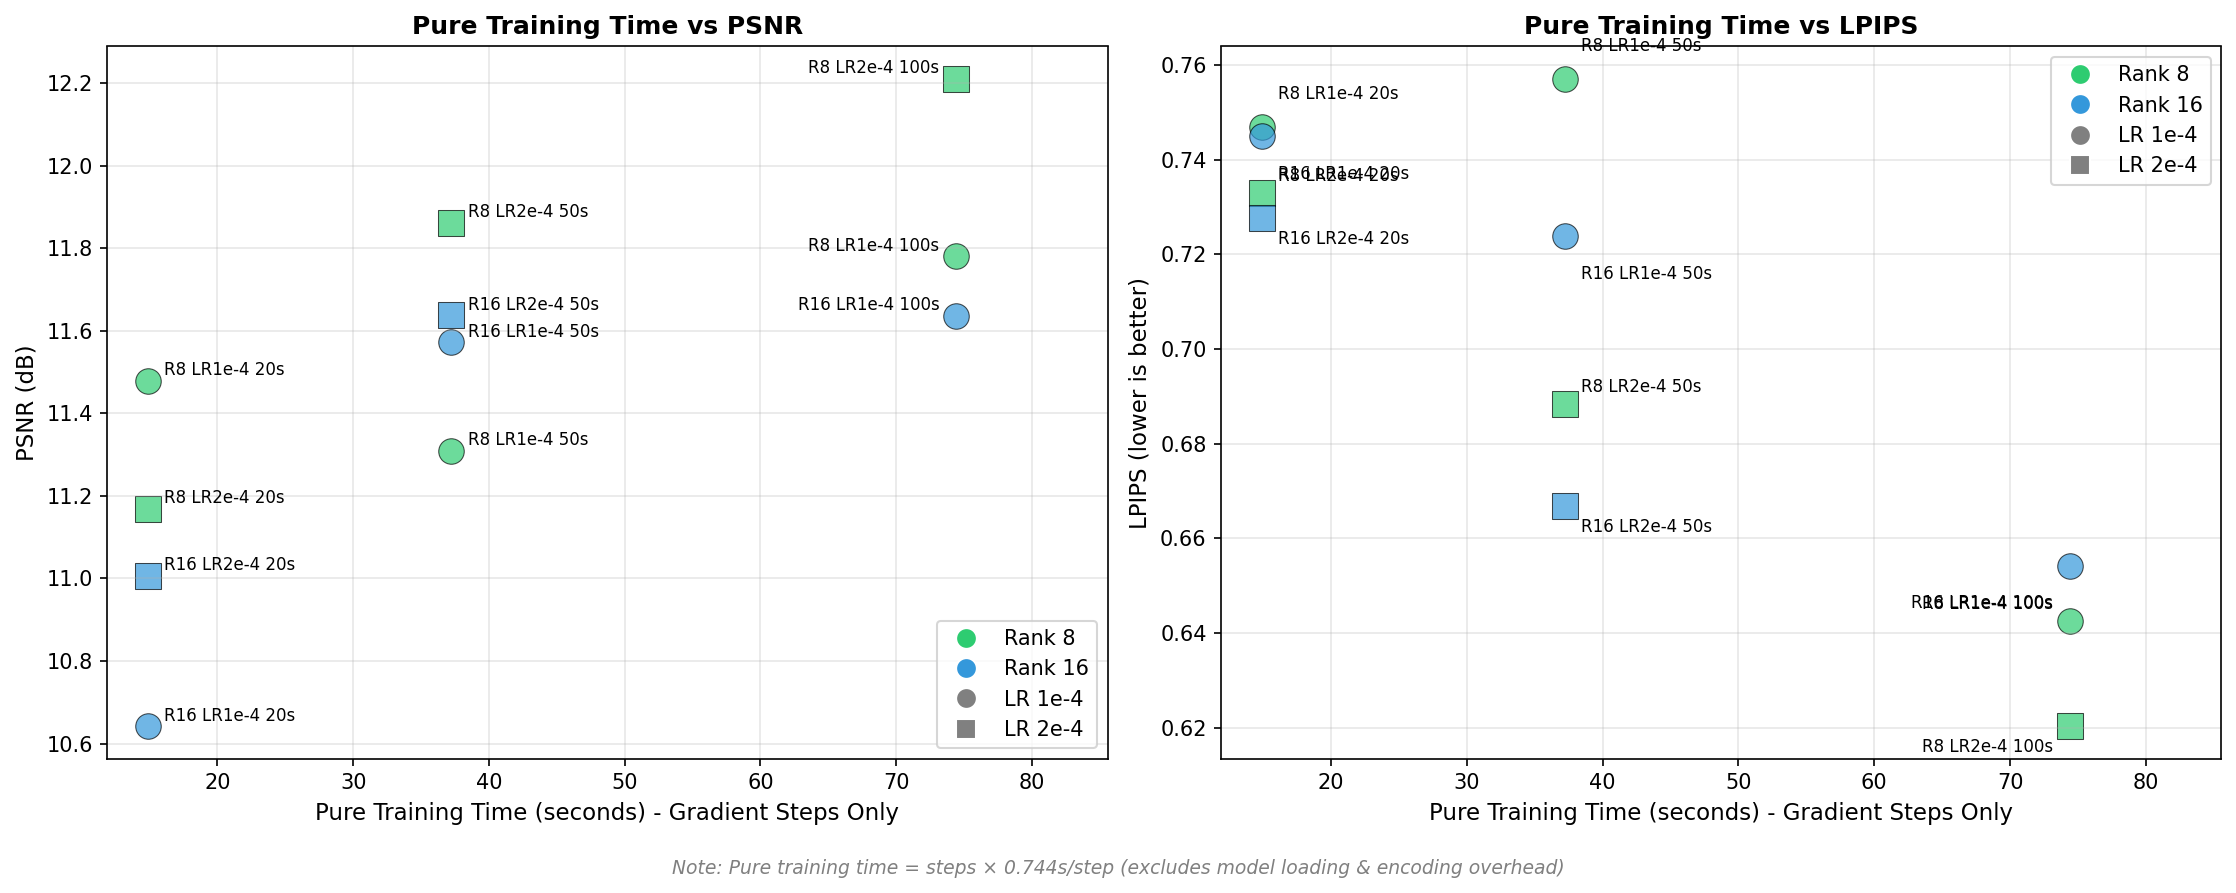
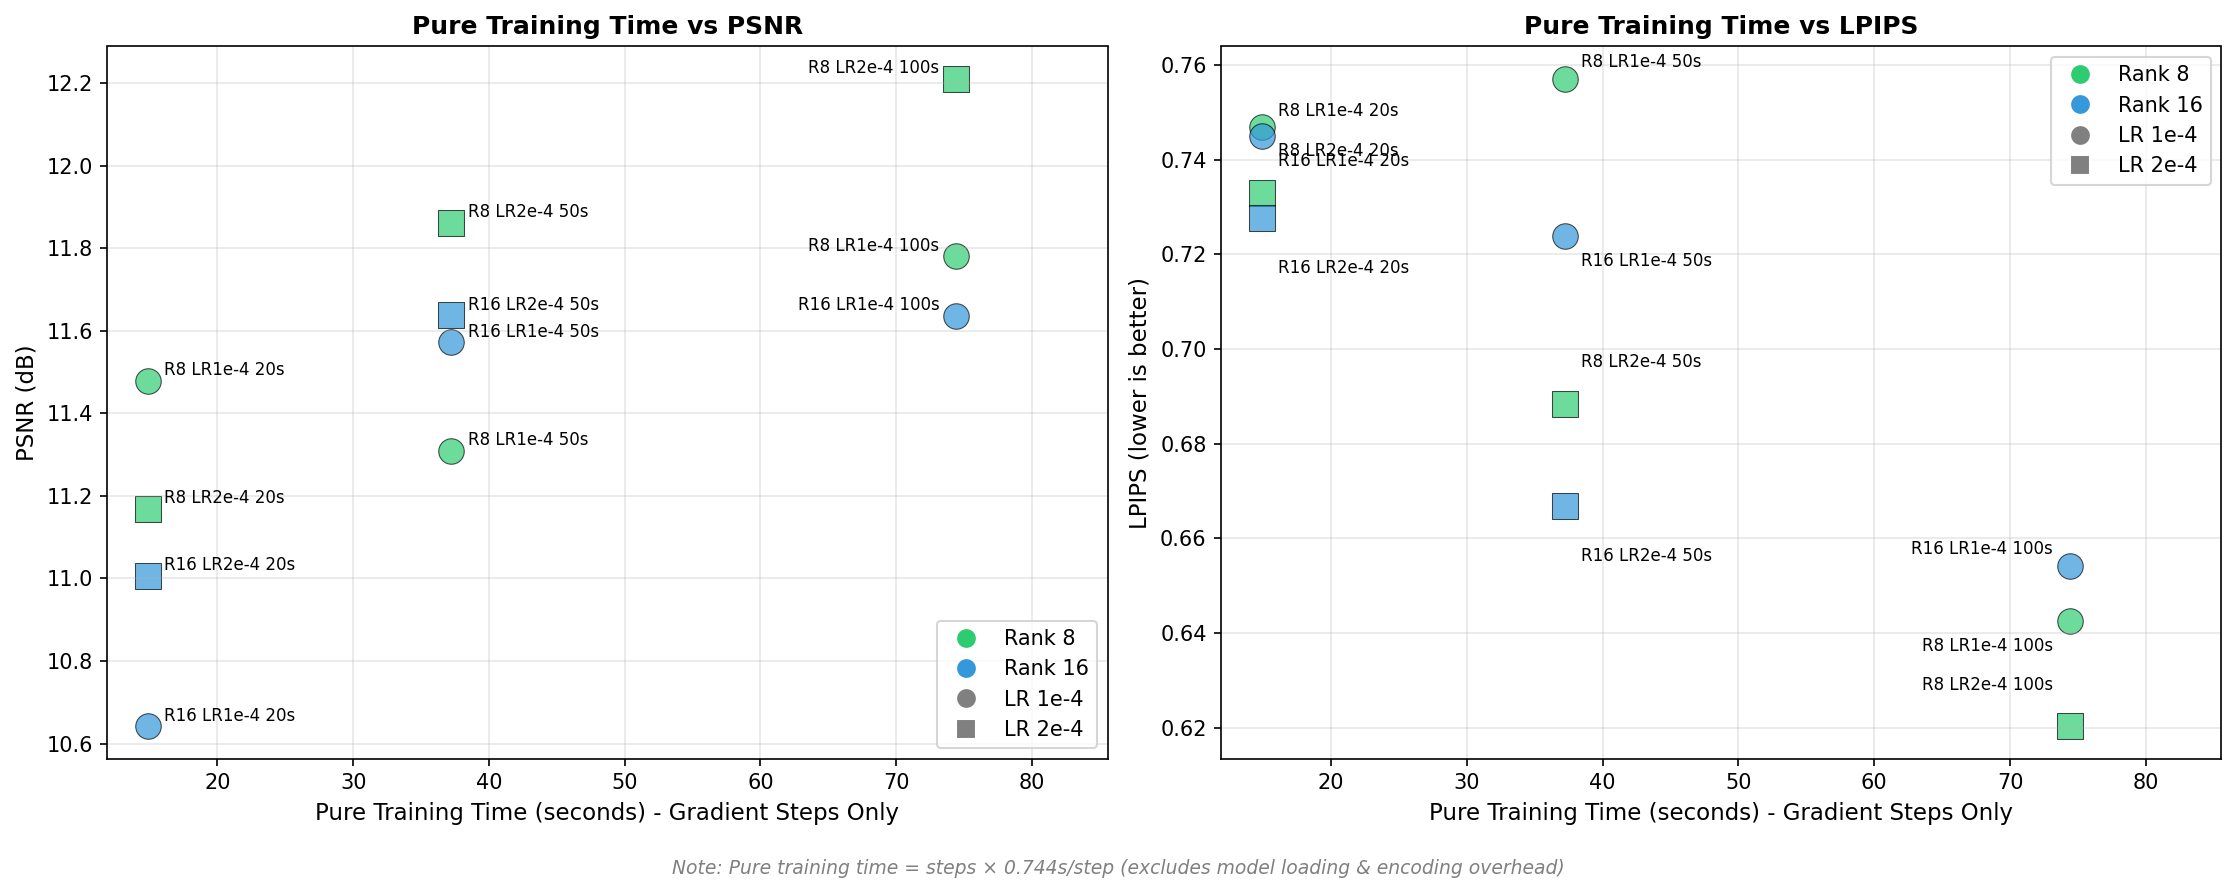
Fix label staggering to prevent all overlaps

diff --git a/lora_experiment/scripts/visualization/compare_lora_configs.py b/lora_experiment/scripts/visualization/compare_lora_configs.py
@@ -353,8 +353,8 @@ def plot_time_vs_quality(results: dict, output_dir: Path):
     
     # Add labels with smart positioning for LPIPS
     for t, points in time_to_points.items():
-        # Sort points by LPIPS value
-        points.sort(key=lambda x: x[1])
+        # Sort points by LPIPS value (highest first, so labels go from top to bottom)
+        points.sort(key=lambda x: -x[1])
         
         for rank_in_group, (i, lpips, label, color, marker) in enumerate(points):
             # Determine horizontal alignment based on position
@@ -367,11 +367,10 @@ def plot_time_vs_quality(results: dict, output_dir: Path):
             
             # Stagger labels vertically if multiple points at same x
             if len(points) > 1:
-                # Alternate above/below for points at same x (smaller offsets)
-                if rank_in_group % 2 == 0:
-                    y_offset = -10 - (rank_in_group // 2) * 8
-                else:
-                    y_offset = 8 + (rank_in_group // 2) * 8
+                # Place labels in order: above first point, below second, etc.
+                # Use consistent spacing that doesn't overlap
+                offsets = [8, -12, 20, -24, 32, -36]  # Alternating above/below with increasing distance
+                y_offset = offsets[rank_in_group] if rank_in_group < len(offsets) else 8 + rank_in_group * 12
             else:
                 y_offset = 5
             
